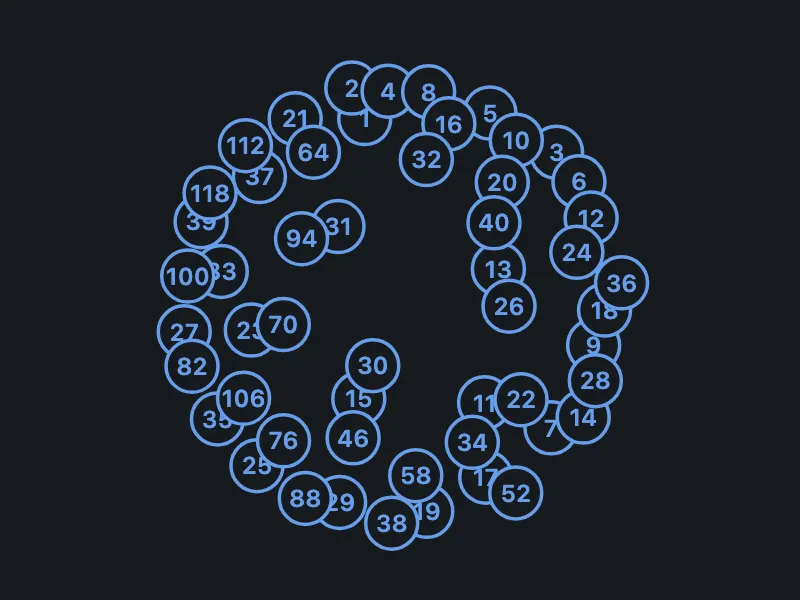
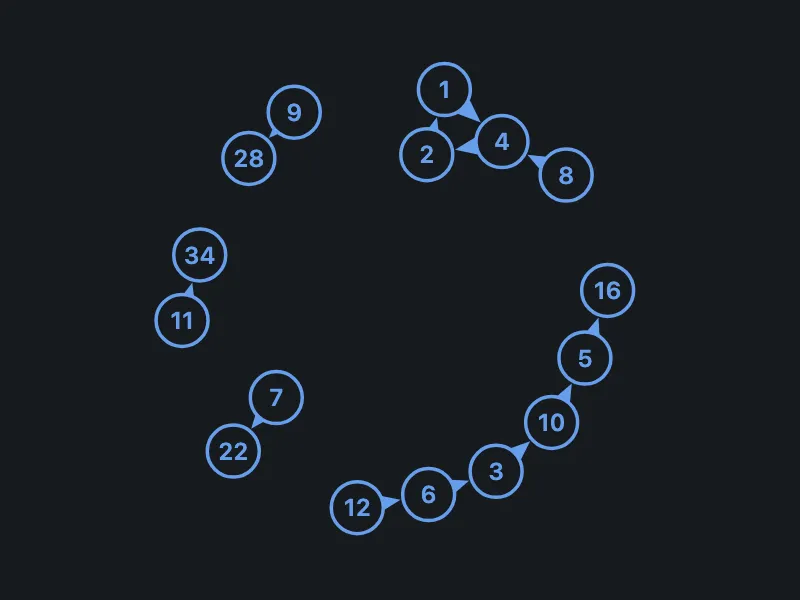
Collatz example: 1..12, so the arrows show at the default zoom
With k = [1..40] the 53 vertices were fitted to the same radius as a
dozen, and at 13 px each they covered their own arrows.

Changed region(s): [[0.1875, 0.09, 0.8125, 0.93]]

diff --git a/web/examples.ts b/web/examples.ts
@@ -310,7 +310,7 @@ export const EXAMPLES: Array<[string, Array<[string, string, string]>]> = [
       ],
       [
         'Collatz graph',
-        'c(m) = {mod(m, 2) = 0: m/2, 3m + 1}; k = [1..40]; graph(k, c(k))',
+        'c(m) = {mod(m, 2) = 0: m/2, 3m + 1}; k = [1..12]; graph(k, c(k))',
         'graph number-theory recursion',
       ],
     ],
